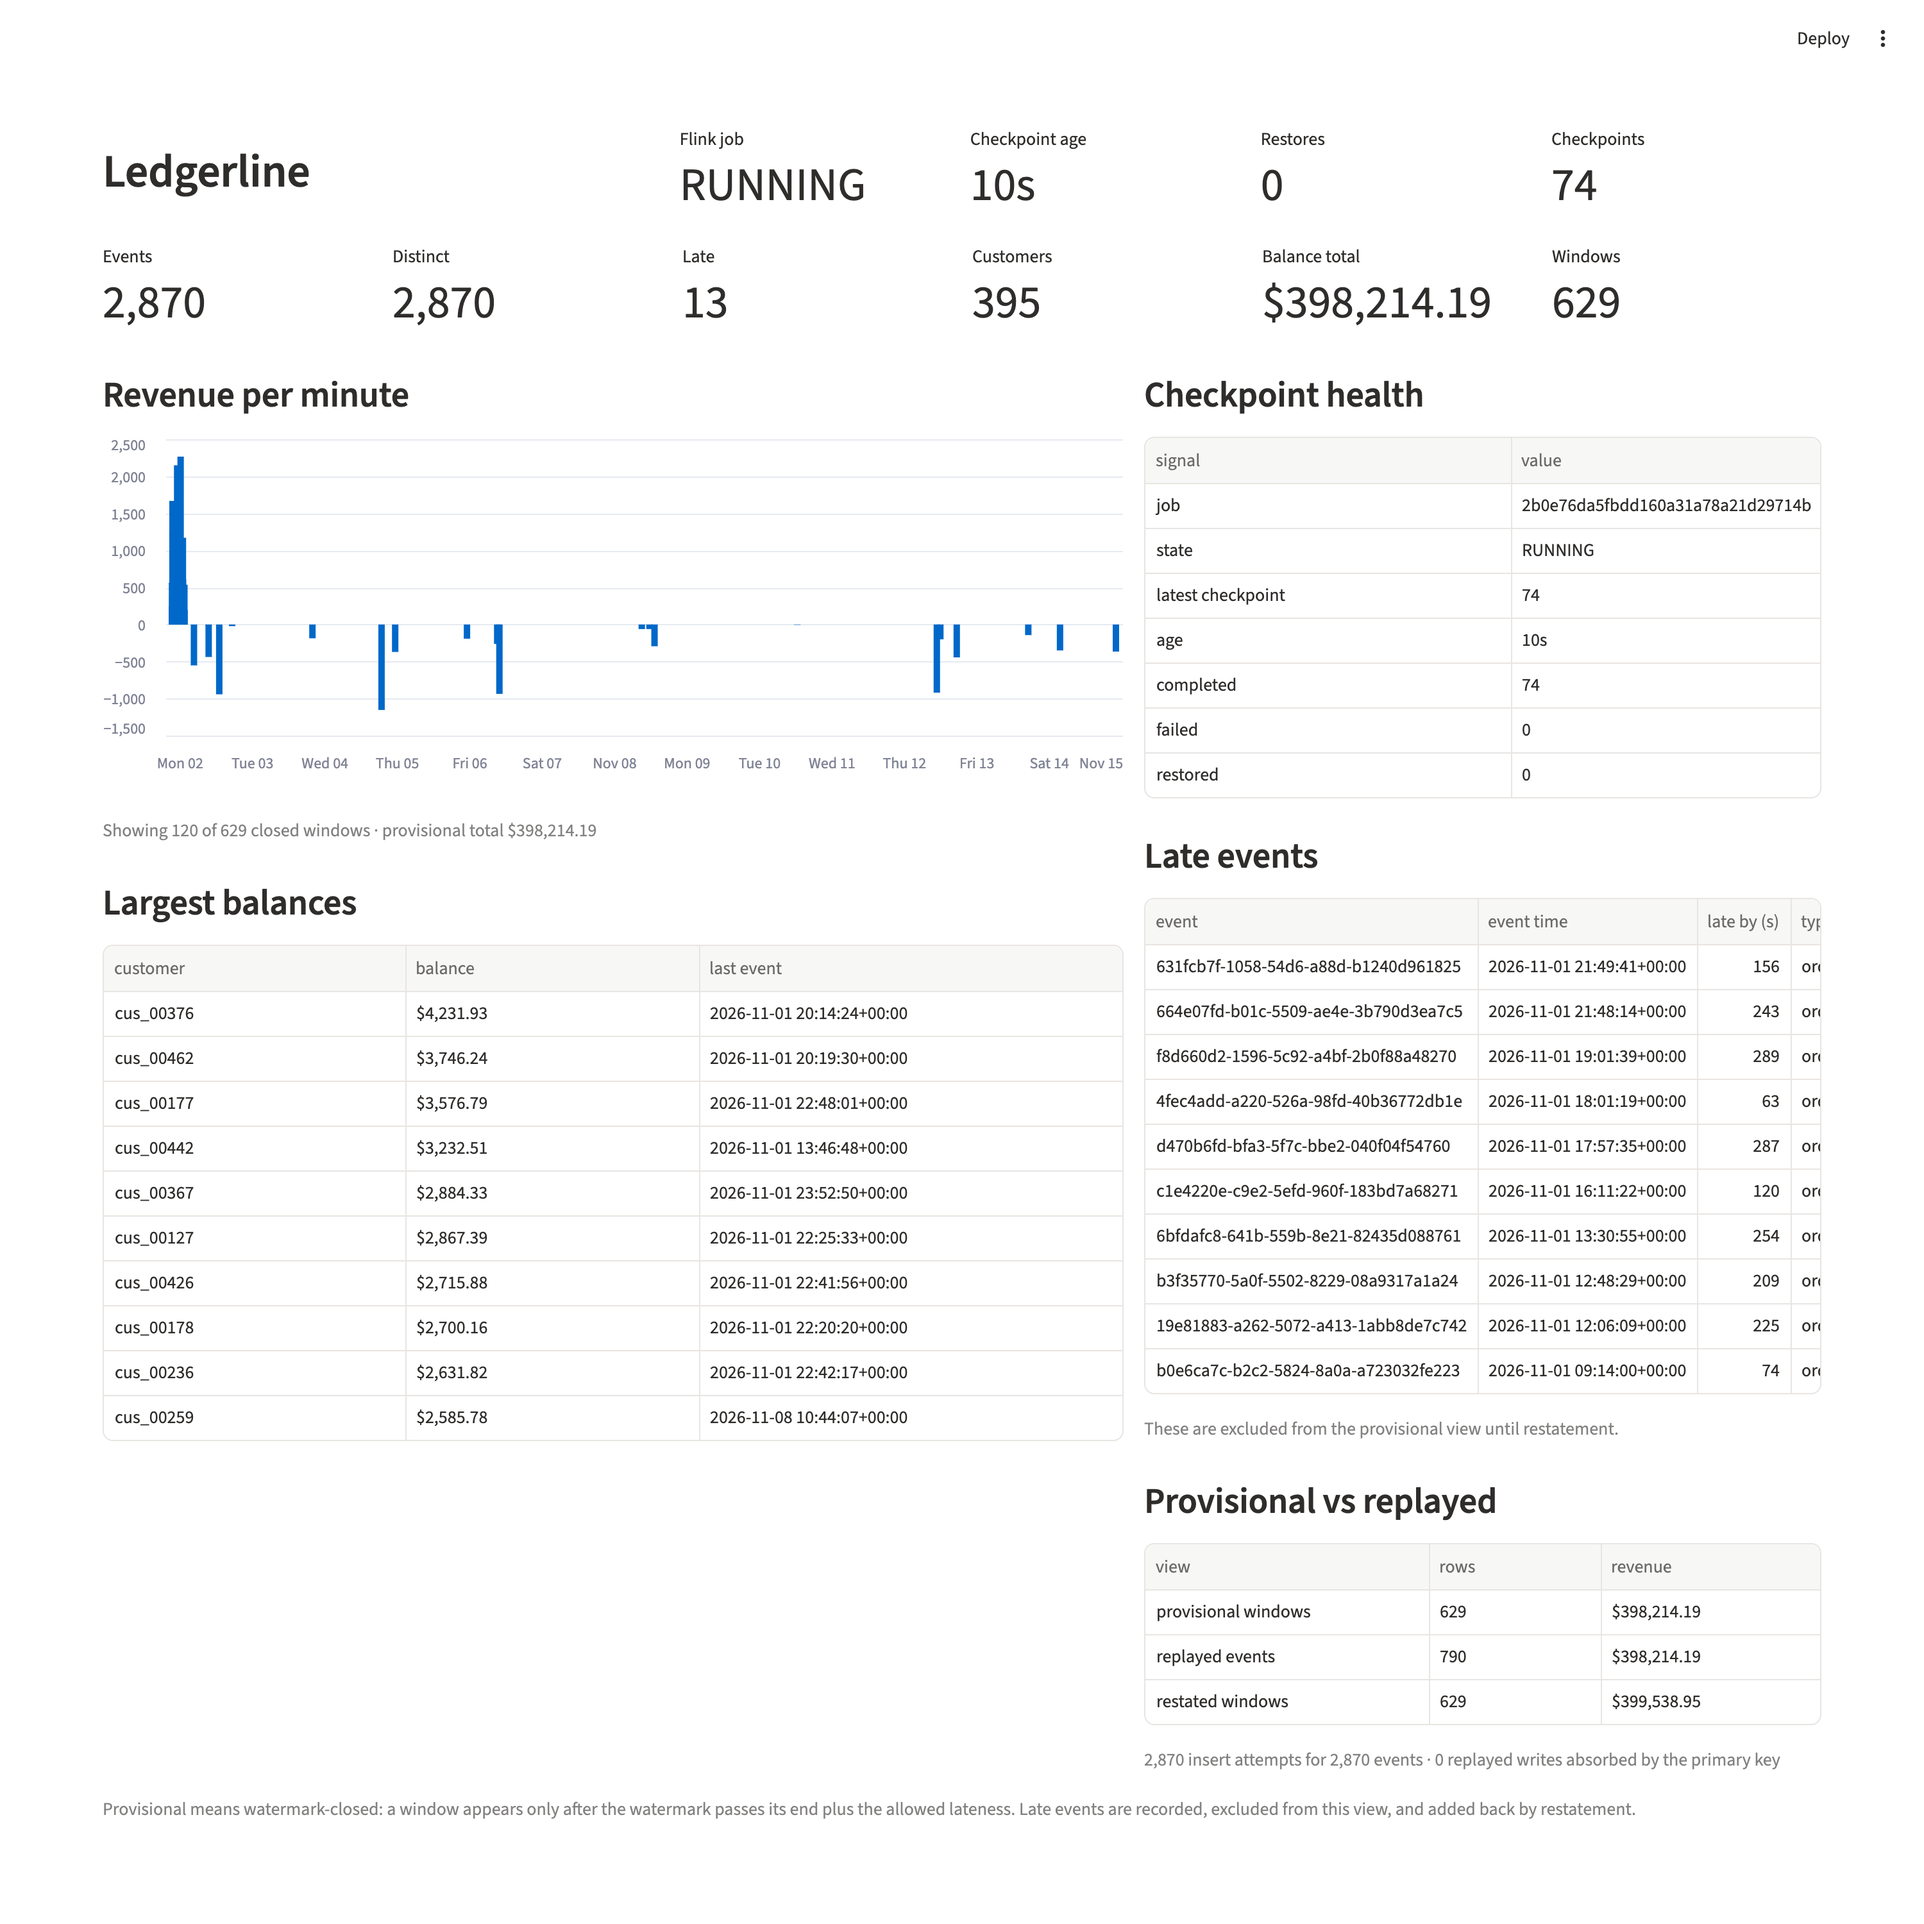
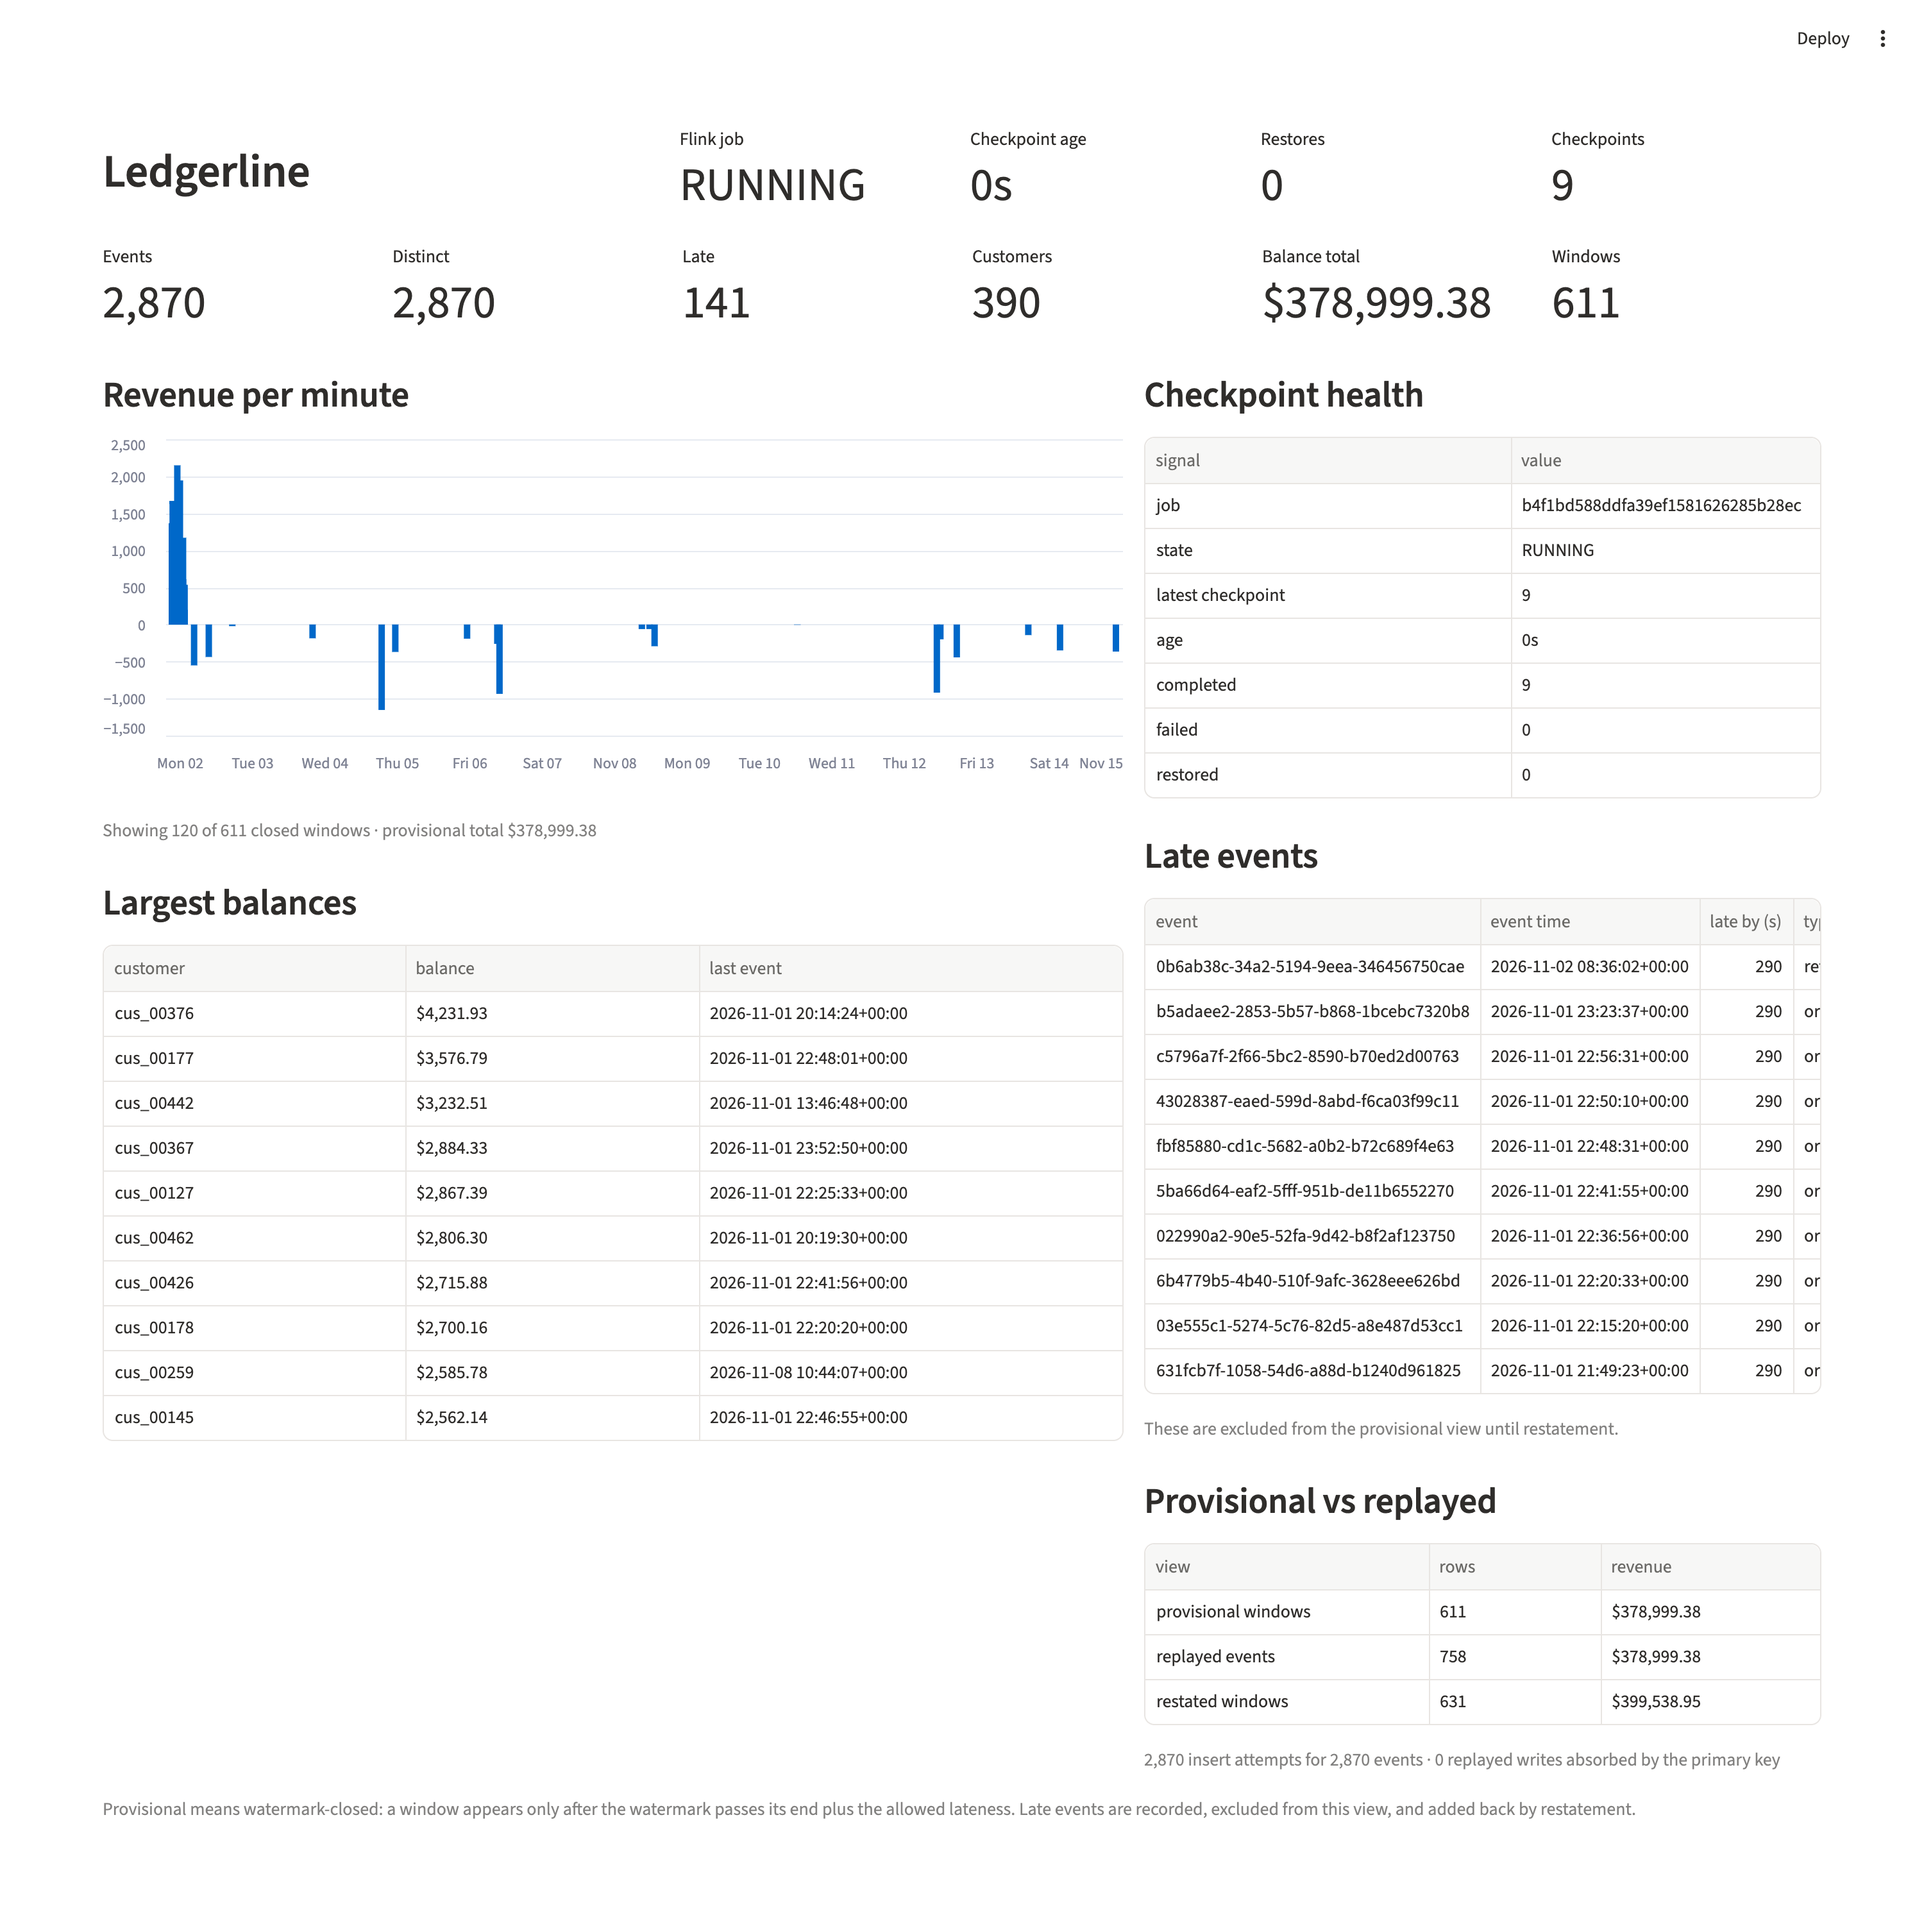
fix(dashboard): stringify checkpoint health values
The value column mixed ints, strings, and None, so Arrow fell back
to an object column and Streamlit logged a serialization traceback
on every fragment refresh. Cast the display values to str; the table
renders the same.

Also refresh docs/screenshots/dashboard.png from the deterministic
late-data run (141 late, 37,899,938 cents provisional, 611 windows).

diff --git a/dashboard/app.py b/dashboard/app.py
@@ -151,17 +151,20 @@ def live() -> None:
     with right:
         st.subheader("Checkpoint health")
         if health:
+            # One dtype per column: a mix of ints, strings, and None makes
+            # Arrow fall back to object and log a serialization traceback.
+            signals = [
+                ("job", job["jid"]),
+                ("state", job_state),
+                ("latest checkpoint", health.get("latest_id")),
+                ("age", seconds(health.get("age_seconds"))),
+                ("completed", health.get("completed")),
+                ("failed", health.get("failed")),
+                ("restored", health.get("restored")),
+            ]
             st.dataframe(
                 pd.DataFrame(
-                    [
-                        ["job", job["jid"]],
-                        ["state", job_state],
-                        ["latest checkpoint", health.get("latest_id")],
-                        ["age", seconds(health.get("age_seconds"))],
-                        ["completed", health.get("completed")],
-                        ["failed", health.get("failed")],
-                        ["restored", health.get("restored")],
-                    ],
+                    [(name, str(value)) for name, value in signals],
                     columns=["signal", "value"],
                 ),
                 width="stretch",
